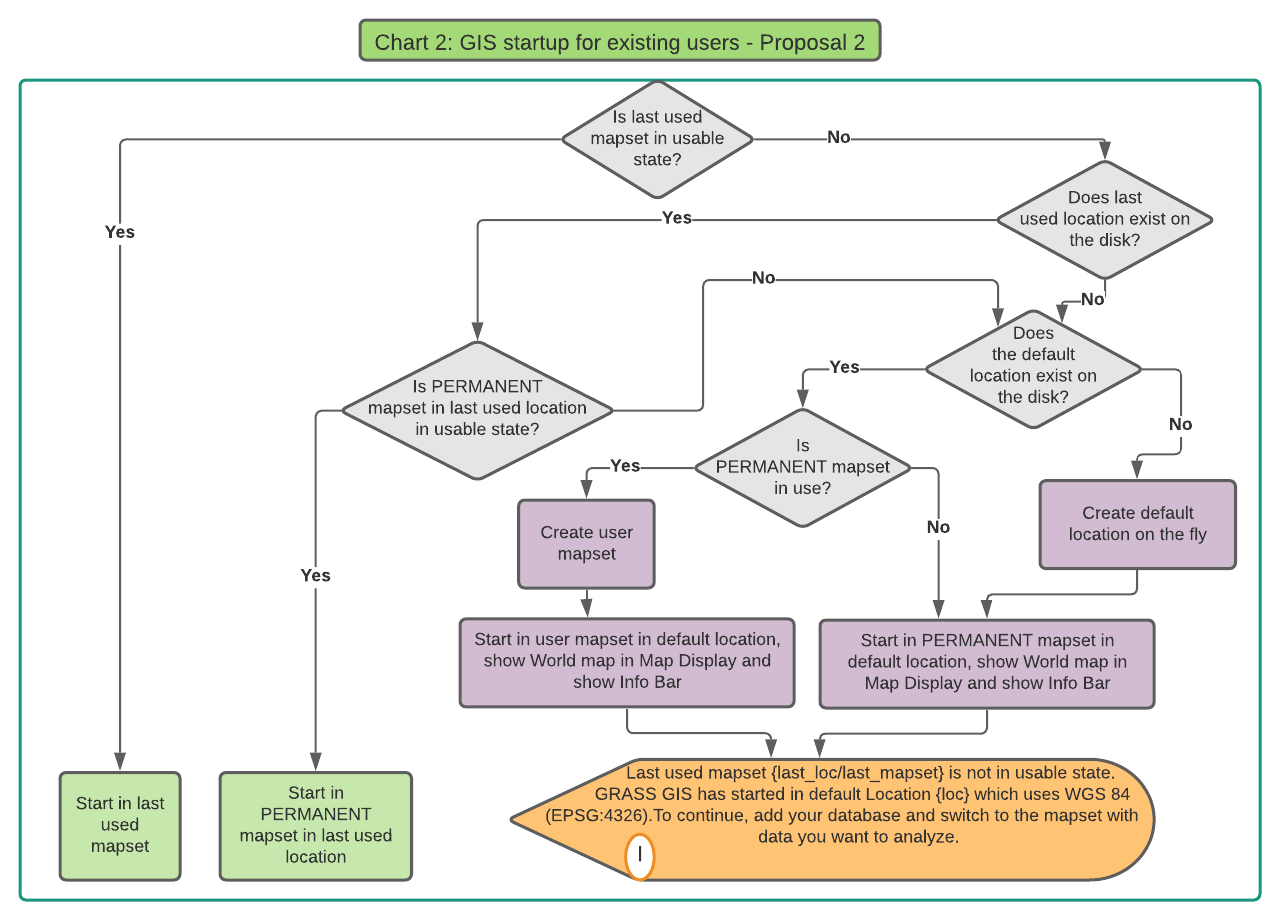
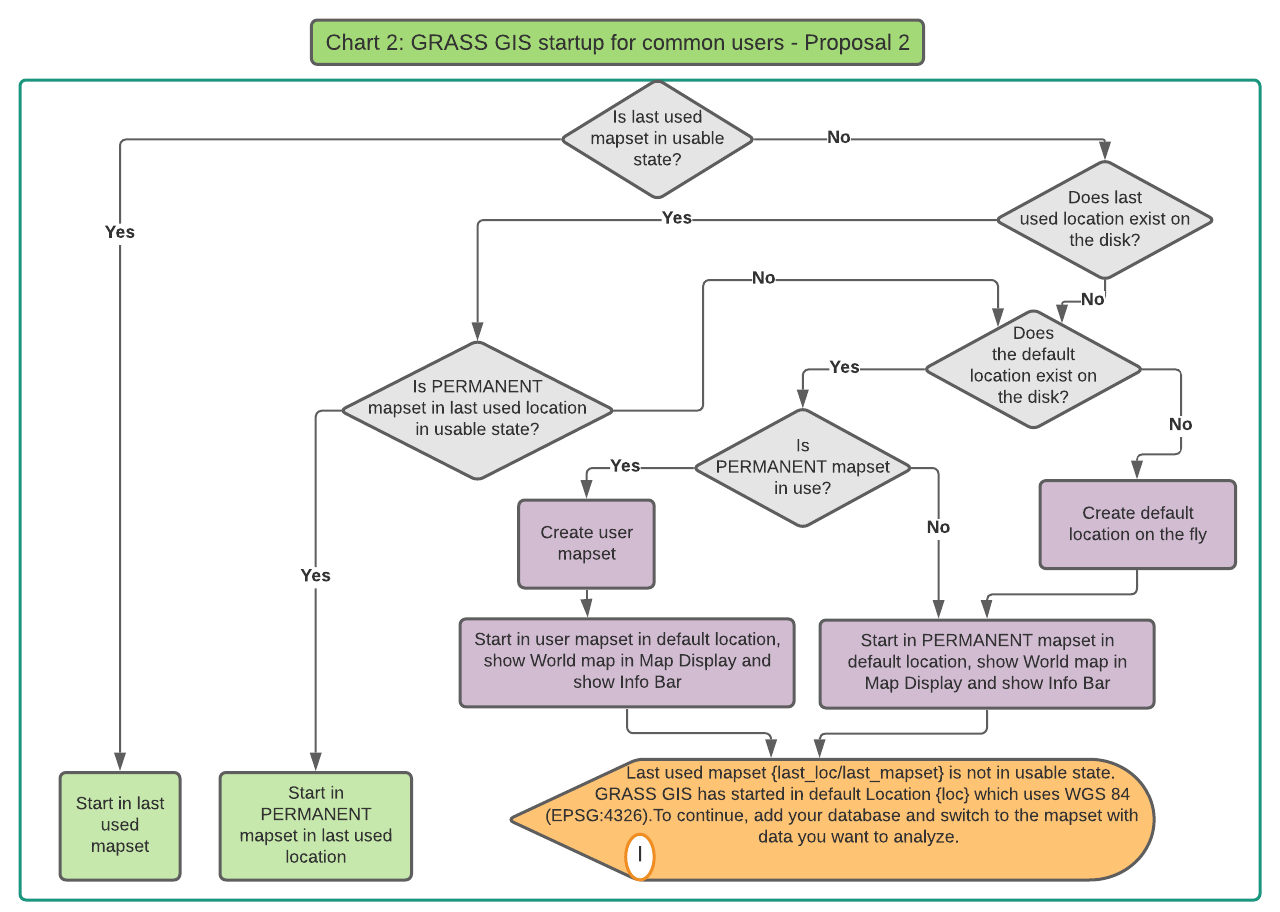
Edits concerning Figures

diff --git a/text/linda-kladivova-dp-2021.tex b/text/linda-kladivova-dp-2021.tex
@@ -518,7 +518,7 @@ versions of the startup screen can be seen in Figure
 \begin{figure}[hbt!]
 \begin{center}
 \includegraphics[width=17cm]{../pictures/verze_startup.png} 
-\caption[Historical versions of the GRASS startup screen]{Historical versions of the GRASS startup screen (Source: \cite{intro})}
+\caption[Historical versions of GRASS startup screen]{Historical versions of GRASS startup screen (Source: \cite{intro})}
 \label{fig:verze_startup}
 \end{center}
 \end{figure}
@@ -960,7 +960,7 @@ the GRASS GIS ``after GSoC'' development version:
 \begin{figure}[hbt!] 
 \begin{center}
 \includegraphics[width=17cm]{../pictures/demolocation_startup.png} 
-\caption[GRASS starts in the prepared default location]{GRASS starts in the prepared default location (Source: Personal collection)}
+\caption[GRASS starts in the pre-prepared default location]{GRASS starts in the pre-prepared default location (Source: Personal collection)}
 \label{fig:demolocation_startup}
 \end{center}
 \end{figure}
@@ -1181,7 +1181,7 @@ experience.
 \ref{fig:hodnoceni_free} we can see graphs of the 10 highest rated GIS
 % ML: in following text you are using "open-source" term rather than "free"
 % LK: changed
-software and the 10 highest rated Free GIS software in 2020, as stated
+software and the 10 highest rated free GIS software in 2020, as stated
 in the evaluation taken by GIS Geography online journal
 \cite{gisgeography}. The evaluation is performed on a point scale from
 0 to 10 in four categories - \textit{cartography, analysis, editing,
@@ -1196,7 +1196,7 @@ significantly.
 \begin{figure}[hbt!] 
 \begin{center}
 \includegraphics[width=13cm]{../pictures/hodnoceni_all.png} 
-\caption[Top 10 GIS Software in 2020 according to GISGeography journal]{Top 10 GIS Software in 2020 according to GIS Geography journal \cite{gisgeography}}
+\caption[Top 10 GIS Software in 2020 according to GIS Geography journal]{Top 10 GIS Software in 2020 according to GIS Geography journal \cite{gisgeography}}
 \label{fig:hodnoceni_all}
 \end{center}
 \end{figure}
@@ -1204,7 +1204,7 @@ significantly.
 \begin{figure}[hbt!] 
 \begin{center}
 \includegraphics[width=13cm]{../pictures/hodnoceni_free.png} 
-\caption[Top 10 Free GIS Software in 2020 according to GISGeography journal]{Top 10 Free GIS Software in 2020 according to GIS Geography journal \cite{gisgeography}}
+\caption[Top 10 free GIS Software in 2020 according to GIS Geography journal]{Top 10 free GIS Software in 2020 according to GIS Geography journal \cite{gisgeography}}
 \label{fig:hodnoceni_free}
 \end{center}
 \end{figure}
@@ -1375,7 +1375,7 @@ plays a role in all types of software.
 \newpage
 \vspace*{-1cm}
 % ML: try to find better section name
-\subsection{Interesting solutions from other software}
+\subsection{Other software}
 \label{sec:other_software}
 
 In this subsection, the author presents several interesting solutions
@@ -1387,7 +1387,7 @@ straightforward. The user is led through the process with the guided
 tour or a combination of implicit and explicit action cues that show
 the way \cite{ftue2}. The author found two interesting ways to enhance
 the first-time user experience which are the inspiration for Survey 1
-Part 2 Question 1 and Question 2. The author focuses only on software
+Part 2 Question 1 and Question 2. This work focuses on software
 solutions, however, there are also mentioned several examples of web
 solutions.
 
@@ -1725,7 +1725,7 @@ of processing them.
 \begin{figure}[hbt!] 
 \begin{center}
 \includegraphics[width=10cm]{../pictures/survey_monkey_options.png} 
-\caption[Survey Monkey answer types ]{Survey Monkey question types (Source: Personal collection)}
+\caption[Survey Monkey question types ]{Survey Monkey question types (Source: Personal collection)}
 \label{fig:survey_monkey_options}
 \end{center}
 \end{figure}
@@ -1922,7 +1922,7 @@ Histogram and Bar Chart is shown in the following Figure
 \begin{figure}[hbt!]
 \begin{center}
 \includegraphics[width=12.5cm]{../pictures/histogram_barchart.png}
-\caption[Histogram vs. Bar Chart (boxplot)]{Histogram vs. Bar Chart (Source: \cite{OnlineMathLearning})}
+\caption[Histogram vs. Bar Chart]{Histogram vs. Bar Chart (Source: \cite{OnlineMathLearning})}
 \label{fig:histogram_barchart}
 \end{center}
 \end{figure}
@@ -2240,7 +2240,7 @@ clearer way to add WMS/WFS using a new icon.
 \begin{figure}[hbt!] 
 \begin{center}
 \includegraphics[width=15.5cm]{../surveys/analyzed_data/survey1_part1_question4_open_ended.png} 
-\caption[Survey 1 Part 1 Question 4: Classification of open-ended answers]{Survey 1 Part 1 Question 4: Classification of open-ended answers (Source: Personal collection)}
+\caption[Survey 1 Part 1 Question 4: Classification of open-ended responses]{Survey 1 Part 1 Question 4: Classification of open-ended responses (Source: Personal collection)}
 \label{fig:survey1_part1_question4_open_ended}
 \end{center}
 \end{figure}
@@ -2420,7 +2420,7 @@ information, for example in the form of a ``Learn more'' button.
 \begin{figure}[hbt!] 
 \begin{center}
 \includegraphics[width=15.5cm]{../surveys/analyzed_data/survey1_part2_question2_all.png} 
-\caption[Survey 1 Part 2 Question 2: Bar Chart descriptive statistics and classification of open-ended responses]{Survey 1 Part 2 Question 2: Bar Chart, descriptive statistics and classification of  open-ended responses (Source: Basic analyzes provided by the SM)}
+\caption[Survey 1 Part 2 Question 2: Bar Chart, descriptive statistics and classification of open-ended responses]{Survey 1 Part 2 Question 2: Bar Chart, descriptive statistics and classification of  open-ended responses (Source: Basic analyzes provided by the SM)}
 \label{fig:survey1_part2_question2_all}
 \end{center}
 \end{figure}
@@ -2733,7 +2733,7 @@ second instance can no longer start this way.
 \begin{figure}[hbt!] 
 \begin{center}
 \includegraphics[width=16.5cm]{../pictures/normal_user_diagram.png} 
-\caption[Flowchart of GIS startup for existing users: Proposal 1]{Flowchart of GIS startup for existing users: Proposal 1 (Source: Personal collection)}
+\caption[Flowchart of GRASS GIS startup for common users: Proposal 1]{Flowchart of GRASS GIS startup for common users: Proposal 1 (Source: Personal collection)}
 \label{fig:normal_user_diagram}
 \end{center}
 \end{figure}
@@ -2774,7 +2774,7 @@ possible to open the last used mapset or PERMANENT mapset.
 \begin{figure}[hbt!] 
 \begin{center}
 \includegraphics[width=17cm]{../pictures/normal_user_diagram2.png} 
-\caption[Flowchart of GIS startup for existing users: Proposal 2]{Flowchart of GIS startup for existing users: Proposal 2 (Source: Personal collection)}
+\caption[Flowchart of GRASS GIS startup for common users: Proposal 2]{Flowchart of GRASS GIS startup for common users: Proposal 2 (Source: Personal collection)}
 \label{fig:normal_user_diagram2}
 \end{center}
 \end{figure}
@@ -3496,7 +3496,7 @@ importing vector data.
 \begin{figure}[hbt!] 
 \begin{center}
 \includegraphics[width=17cm]{../pictures/uml_chart.png} 
-\caption[UML diagram of InfoBar implementation]{UML diagram of InfoBar implementation (Source: Personal collection)}
+\caption[UML diagram of Infobar implementation]{UML diagram of Infobar implementation (Source: Personal collection)}
 \label{fig:uml_chart}
 \end{center}
 \end{figure}
